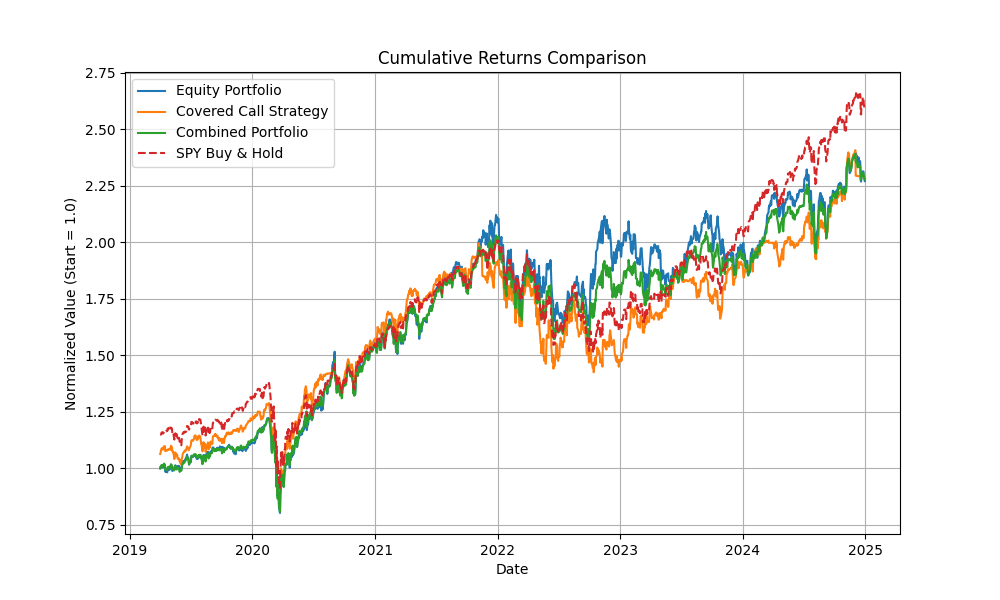
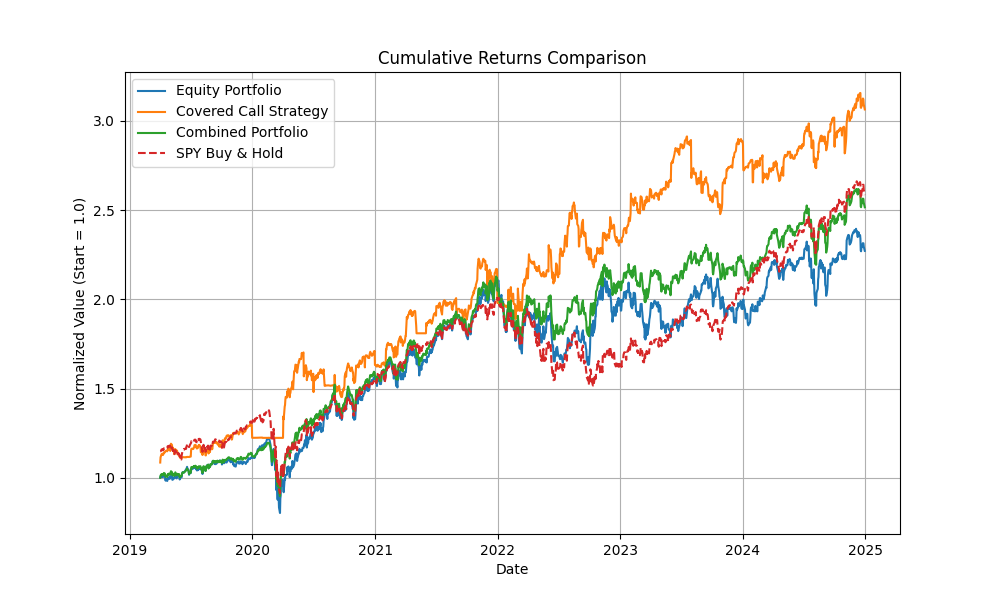
Enhanced covered calls and a lot more stable of a portfolio now with increased returns compared to SPY

diff --git a/scripts/portfolio.py b/scripts/portfolio.py
@@ -17,15 +17,15 @@ transaction_cost = 0.001     # 0.1% per trade cost
 
 # Parameters for covered call enhancements:
 # (When using delta-targeting, the target delta is our key input)
-target_delta = 0.30          # Sell a call option with delta around 0.30
-threshold_vol_option = 0.15  # If annual volatility <15%, extend option term
-short_option_term = 30       # Option term (days) in high volatility periods
-long_option_term = 45        # Option term (days) in low volatility periods
+target_delta = 0.50          # Sell a call option with delta around 0.30
+threshold_vol_option = 0.22  # If annual volatility <15%, extend option term
+short_option_term = 60       # Option term (days) in high volatility periods
+long_option_term = 90        # Option term (days) in low volatility periods
 
 # Dynamic weight allocation parameters (for combined portfolio)
 high_equity_weight = 0.70
-low_equity_weight = 0.40
-vol_threshold = 0.20         # If SPY volatility exceeds 20% annual, lower equity weight
+low_equity_weight = 0.30
+vol_threshold = 0.30         # If SPY volatility exceeds 20% annual, lower equity weight
 
 # Same ETF list and market benchmark
 etf_list = ['XLY', 'XLP', 'XLE', 'XLF', 'XLV',
